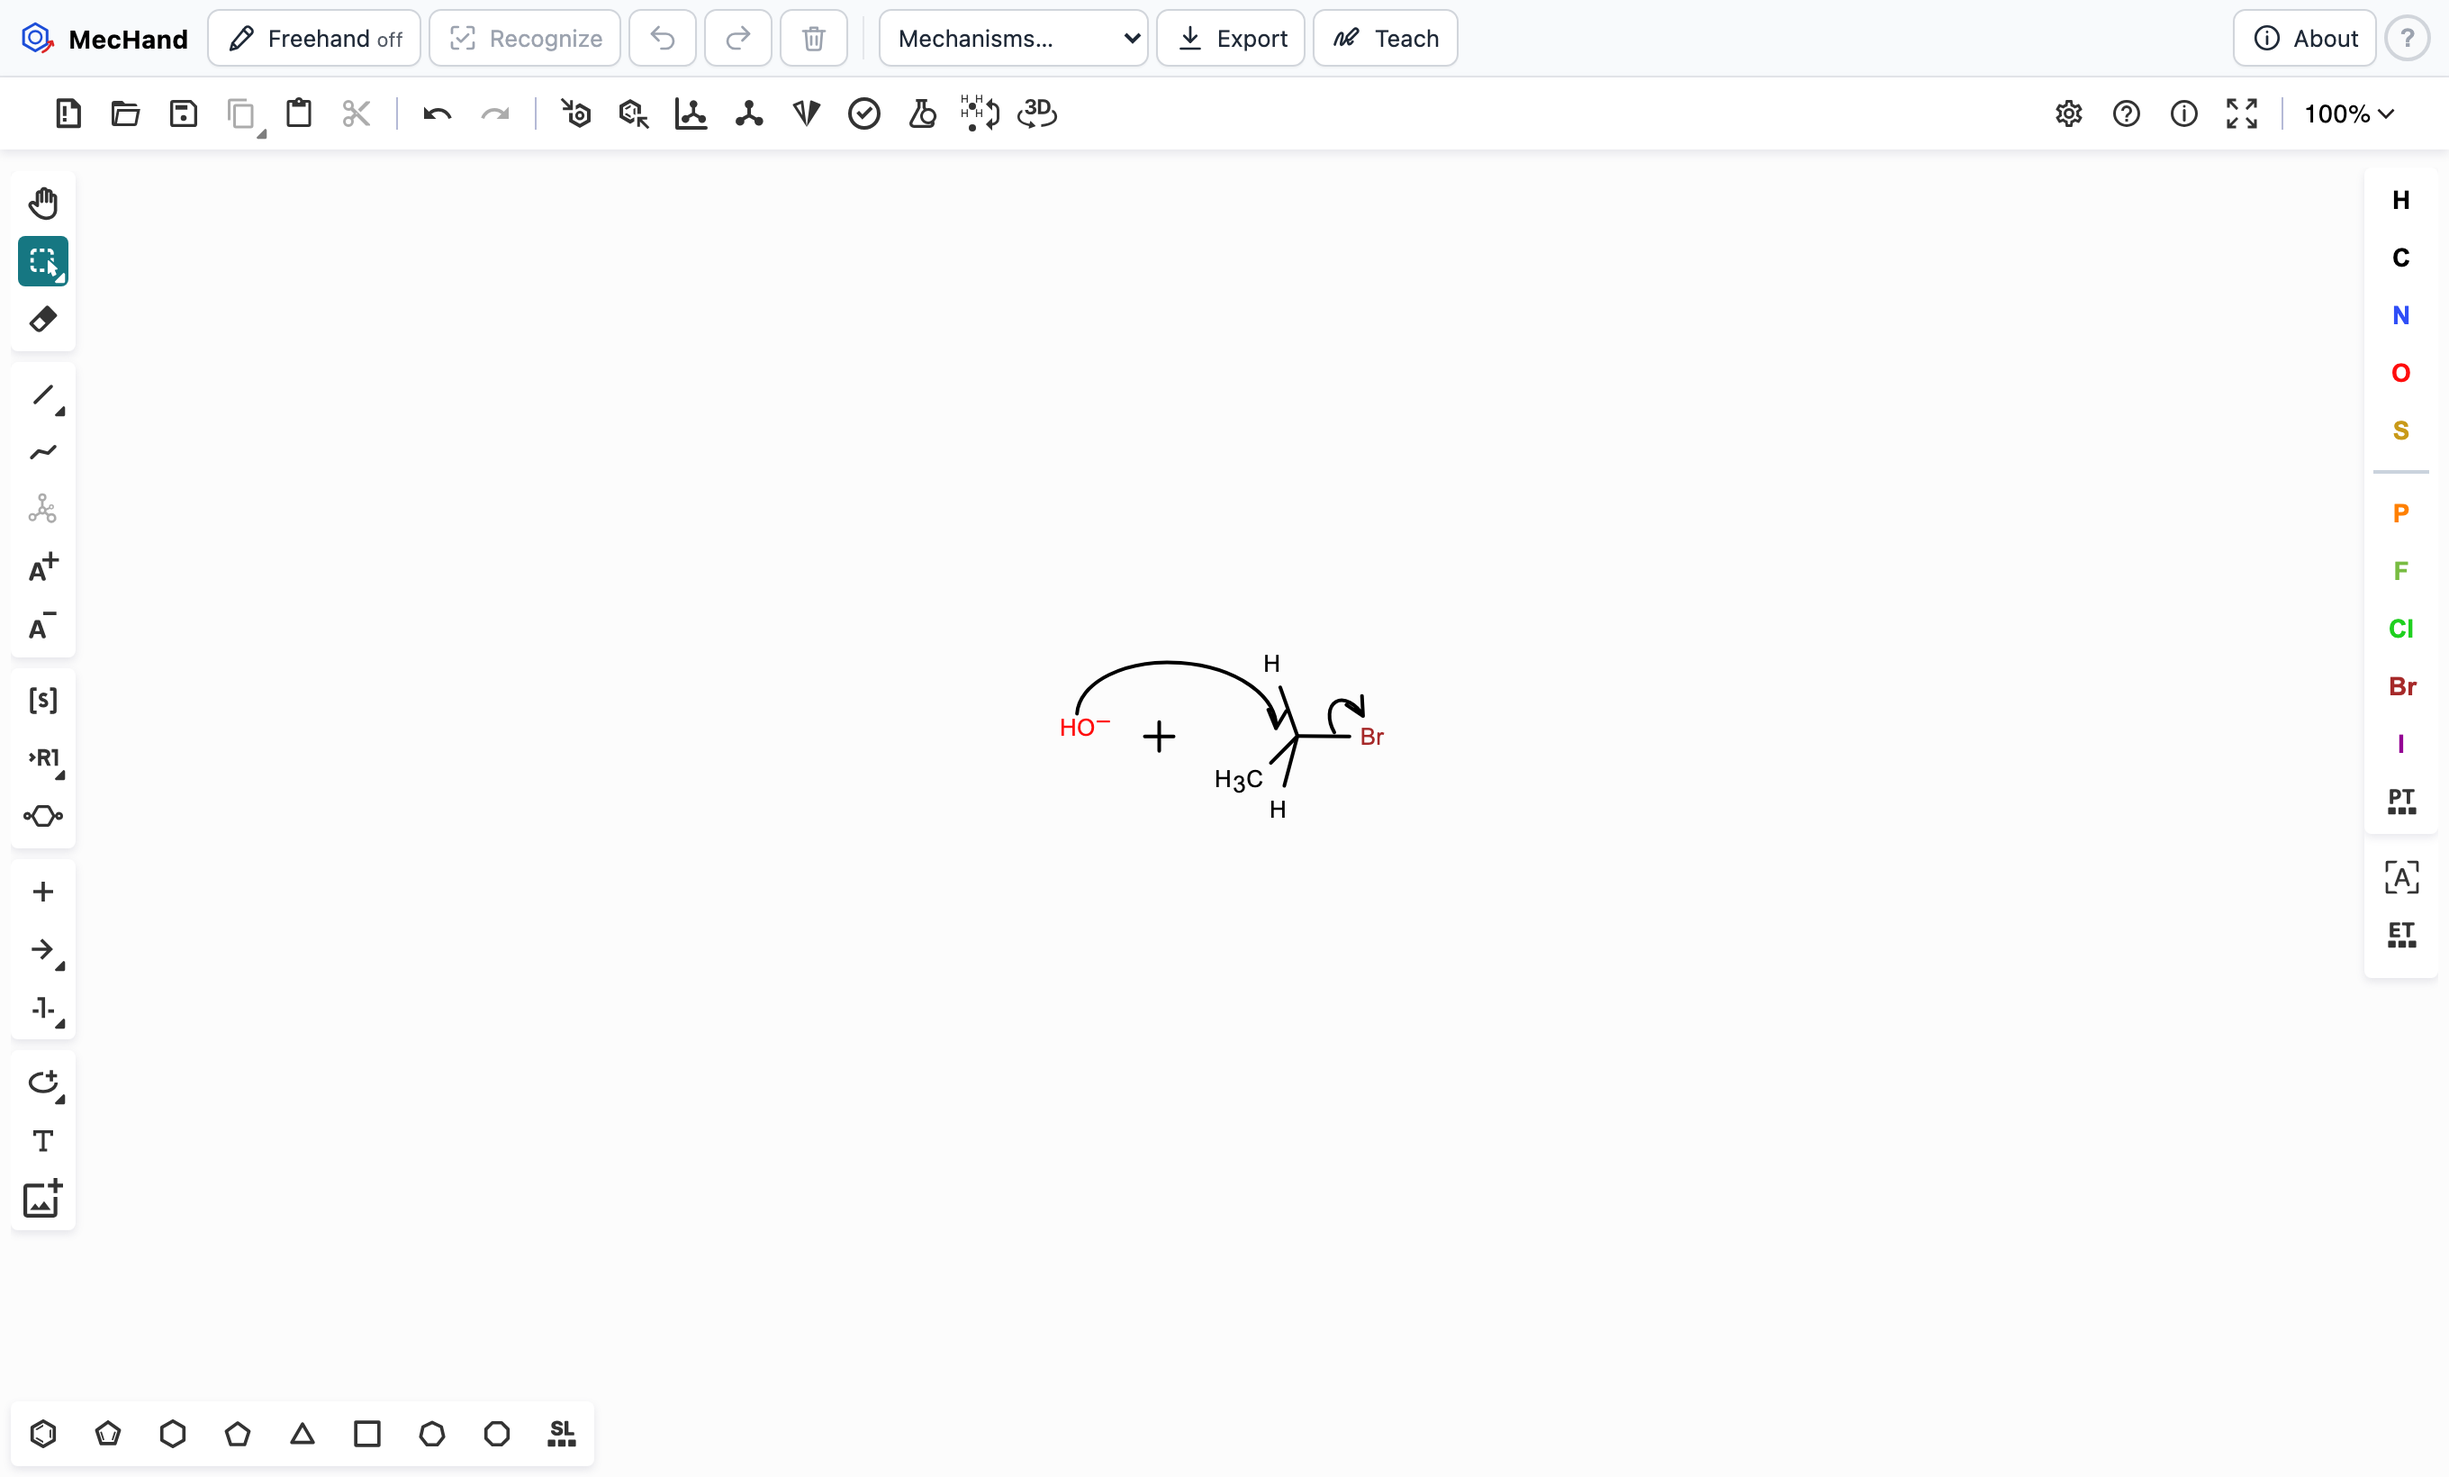
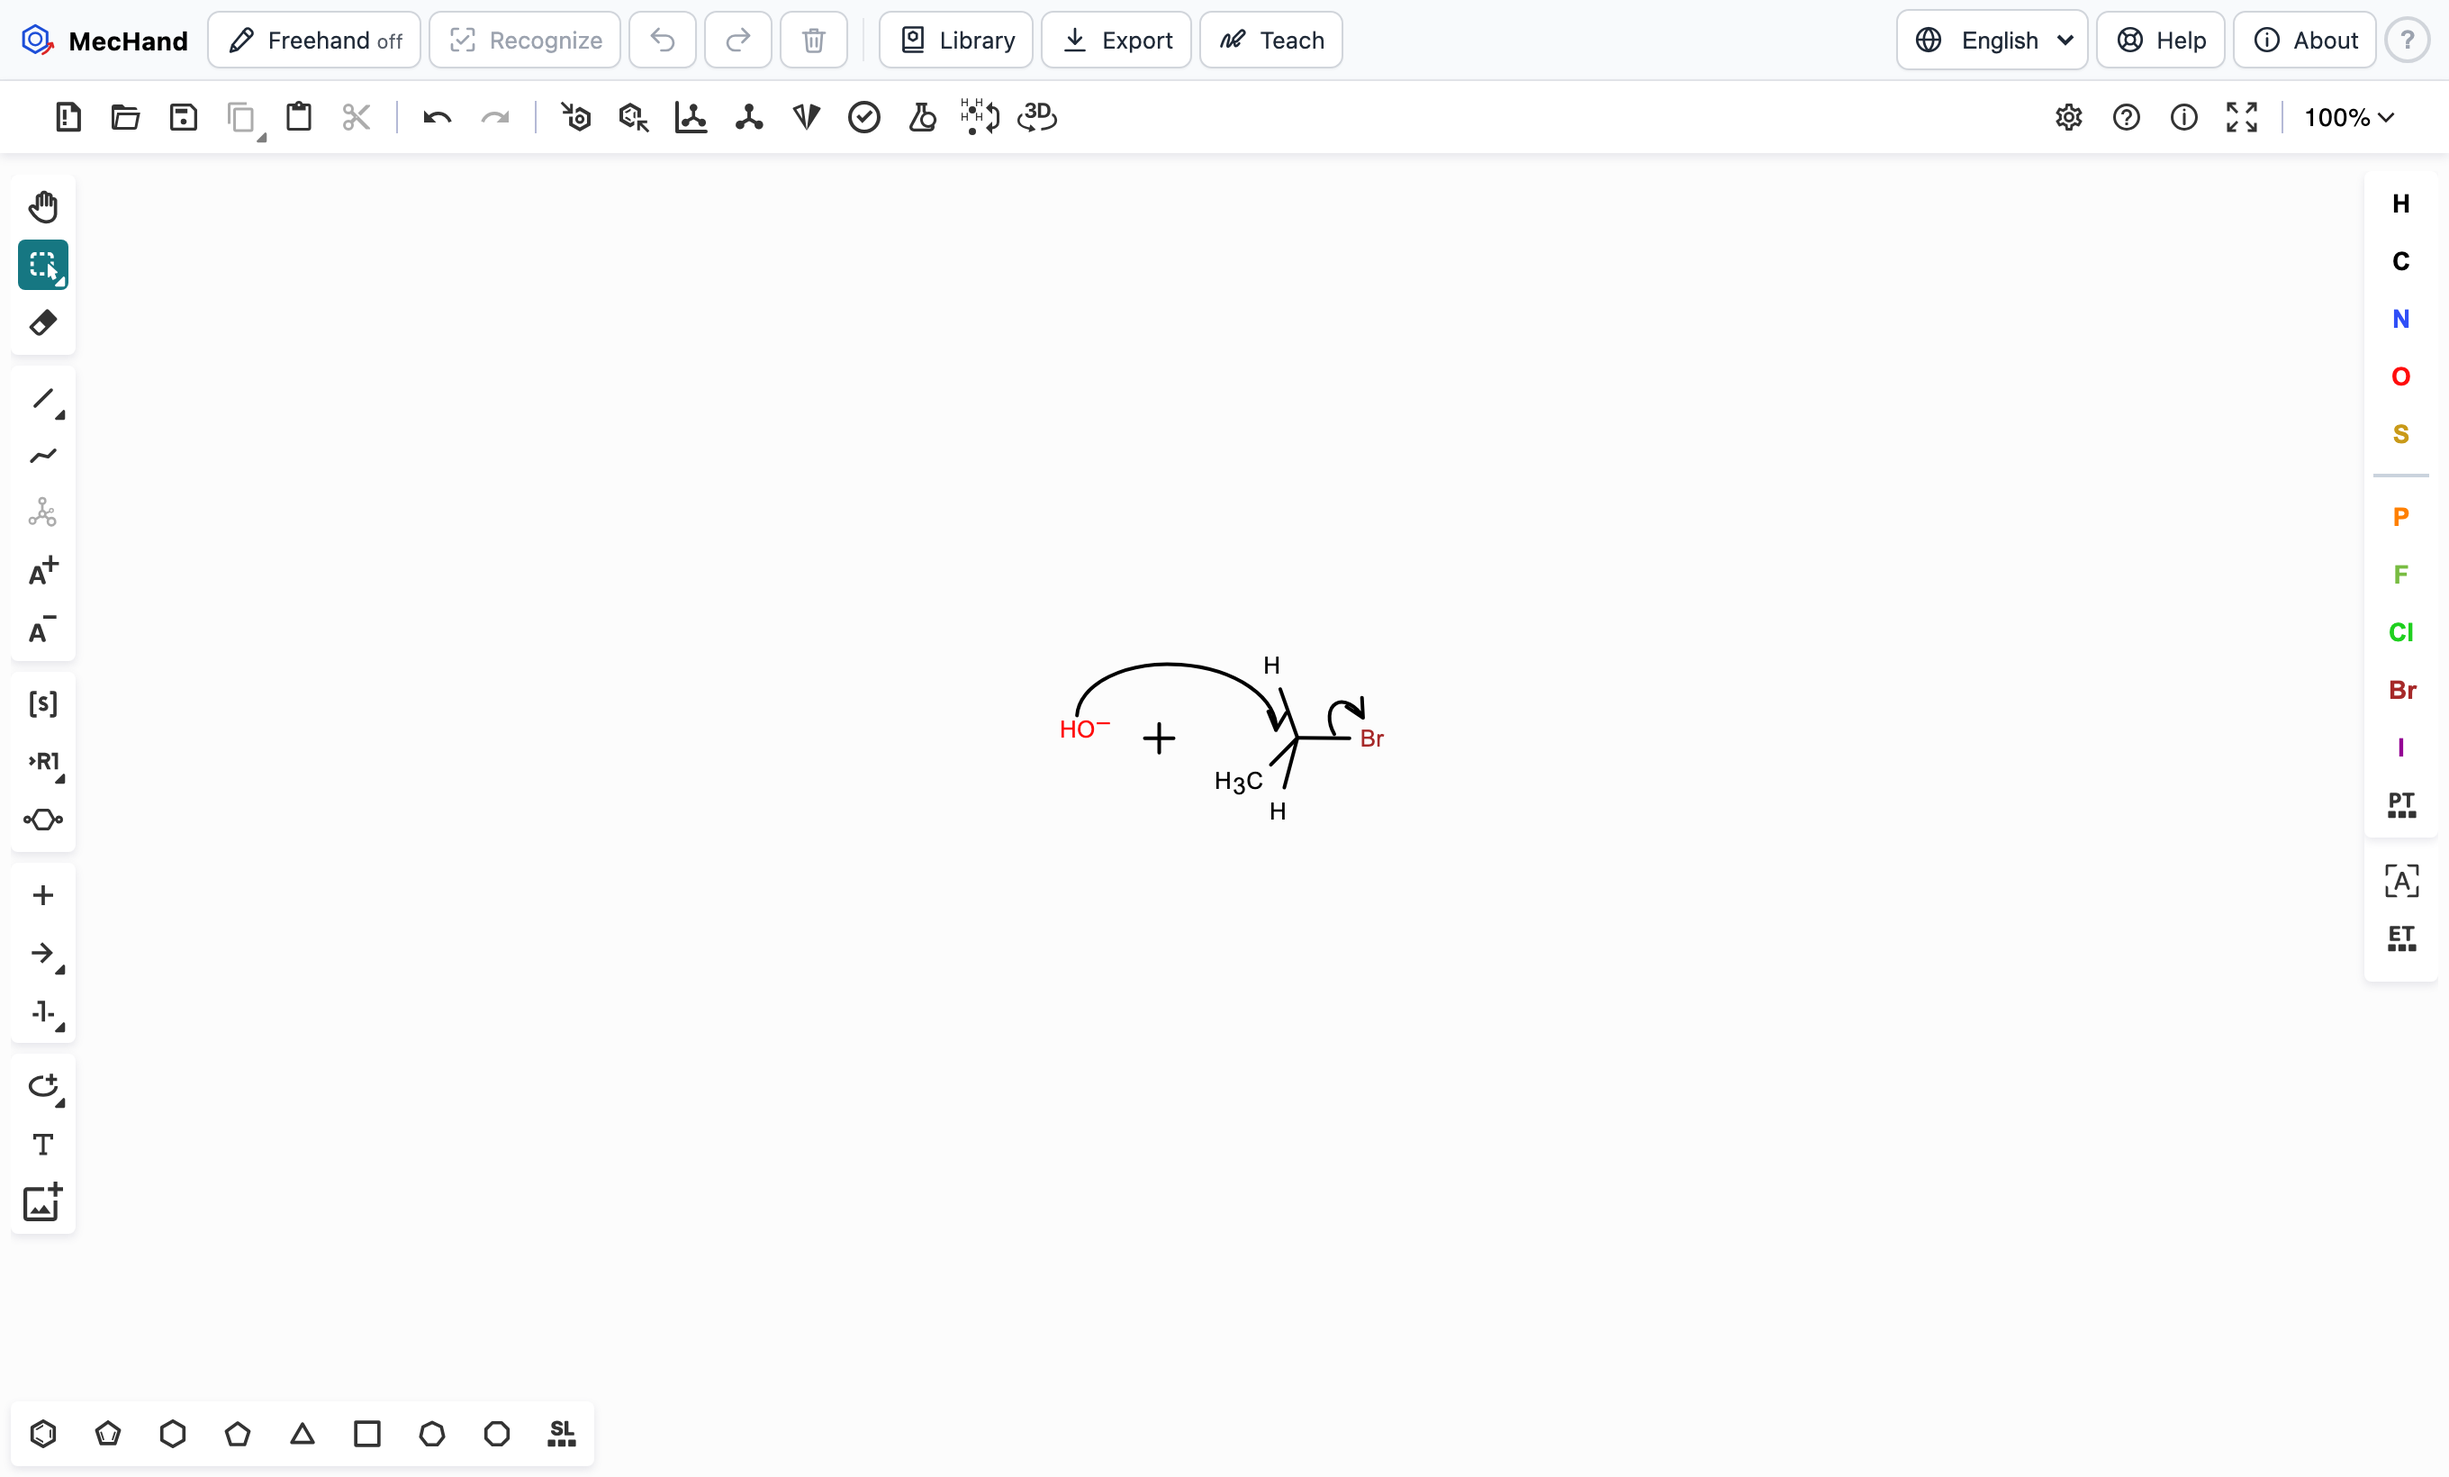
Website: translation guide, help centre and tour, language storage; new screenshots

diff --git a/docs/guide/translating.md b/docs/guide/translating.md
@@ -1,0 +1,51 @@
+# Translating MecHand
+
+MecHand's interface — buttons, dialogs, the pen bar, the template library, the help centre, the
+guided tour and the study panel — can be shown in any language. Each language is **one plain JSON
+file** in
+[`ketcher-mechhand/src/i18n/locales/`](https://github.com/CompBiochBiophLab/MecHand/tree/main/ketcher-mechhand/src/i18n/locales):
+
+| File | Language | Status |
+| --- | --- | --- |
+| `en.json` | English | Source |
+| `ca.json` | Català | Complete |
+| `es.json` | Español | Complete |
+
+Choose the language with the menu next to **Help** (the globe), or with `?lang=xx` in the address.
+The choice is remembered in your browser. Ketcher's own toolbars are part of Ketcher and are not
+translated by MecHand.
+
+## Add or improve a language
+
+1. Copy `en.json` to a new file named with the language code (`fr.json`, `de.json`, `pt-BR.json`…).
+2. Change the `_meta` block: the language's own name (`"name": "Français"`) and your name in
+   `"authors"`.
+3. Translate the **values** (right of the colon). Do not change the **keys** (left of the colon).
+4. Keep the `{placeholders}` exactly as they are — they are filled in by the program — and the
+   `**bold**`, `*italic*` and `` `code` `` marks if you can.
+5. Words that vary with a number come in variants: `"atoms_one": "{count} atom"`,
+   `"atoms_other": "{count} atoms"`. Use the categories of your language (`_one`, `_two`, `_few`,
+   `_many`, `_other`, as in [Unicode plural rules](https://www.unicode.org/cldr/charts/latest/supplemental/language_plural_rules.html));
+   `_other` is always used when a category is missing.
+6. Save the file as UTF-8 and send it: a pull request on GitHub, or by e-mail to the project.
+
+You do not have to translate everything at once: any text that is missing is shown in English.
+
+## Check a translation
+
+With the app checked out (see [Development](./development)):
+
+```sh
+cd ketcher-mechhand
+npx vitest run src/i18n        # unknown keys, changed placeholders, completeness of en/ca/es
+npm run dev                    # then open http://localhost:5173/?lang=xx
+```
+
+The test fails if a key does not exist in English (a typo) or if a placeholder was changed;
+partial translations of new languages pass.
+
+## Notes for the user study
+
+The study panel (`?study=1`) runs in Catalan unless `&lang=` is given. Its questionnaire includes the
+System Usability Scale: the English texts are Brooke's original items; the Catalan and Spanish ones
+are the project's own translations, not validated versions of the scale.

diff --git a/docs/guide/privacy.md b/docs/guide/privacy.md
@@ -16,6 +16,7 @@ data, or sets a cookie.
 | Your ink and recognized structures | Stay in the page (memory). Nothing is uploaded. |
 | Teach samples | Your browser's local storage only (`mechand.symbols.user.v1` for letters, `mechand.elements.user.v1` for arrows, bonds and electrons). Each sample holds the symbol or element (plus, for elements, the scale of the Teach box) and the *x, y* points of its strokes — no timestamps, pressure, device or identity. Imported files are reduced to the same fields. Delete them with **Teach → Delete all**, or by clearing the site's data. |
 | Pen settings | Your browser's local storage only (`mechand.pen.v1`): ink colour, kind of line, width and input mode. Nothing about your strokes. |
+| Interface language, guided tour and tips already shown | Your browser's local storage only (`mechand.lang.v1`, `mechand.tour.v1`, `mechand.tips.v1`). |
 | Library favourites and recent templates | Your browser's local storage only (`mechand.library.favourites`, `mechand.library.recent`): template names. |
 | A name or CAS number you ask the library to look up online | Only when you press **Look up online** (or Alt+Enter): the typed text goes to PubChem (NCBI/NIH, USA) and, if PubChem does not know it, to OPSIN (EMBL-EBI, UK). SMILES and InChI are always read offline. Not available in the user-study mode. |
 | Ketcher settings | Your browser's local storage (Ketcher's own keys). |

diff --git a/docs/guide/getting-started.md b/docs/guide/getting-started.md
@@ -20,8 +20,16 @@ The MecHand bar sits above the Ketcher editor:
 | **Library** (Ctrl/⌘+K) | Template library: rings, functional groups, biomolecules, reagents and complete mechanisms; also draws a molecule from its SMILES, InChI, CAS number or name. |
 | **Export** | TikZ, chemfig, ChemDraw (CDXML), MOL/RXN, KET, SMILES. |
 | **Teach** | Teaches MecHand your handwriting. |
+| Language (globe) | Language of the interface: English, Català, Español… ([add yours](./translating)). |
+| **Help** (F1) | Help centre: tips for what you are doing now, searchable topics, keyboard shortcuts and a guided tour of the controls. |
 | **About** | Version, recognition model, structure engine and browser notes. |
 | **?** | Shows short help labels on every button (Expert or Student level). |
+
+![The help centre beside the canvas](/img/help-center.png)
+
+On your first visit MecHand offers a one-minute **guided tour**; you can take it again from the
+help centre. Small tips also appear once when they can help — for instance when palm rejection is
+ignoring your finger, or when you seem to be drawing with a trackpad.
 
 Continue with [Drawing mechanisms](./drawing), or follow the [tutorial (PDF)](/tutorial.pdf).
 

diff --git a/README.md b/README.md
@@ -35,6 +35,7 @@ electron-flow arrows into Ketcher.
 - [Export](#export)
 - [Browser support](#browser-support)
 - [Privacy](#privacy)
+- [Help and translations](#help-and-translations)
 - [User study](#user-study)
 - [Optional recognition server (DECIMER)](#optional-recognition-server-decimer)
 - [Ideas taken from ChemDraw and Marvin](#ideas-taken-from-chemdraw-and-marvin)
@@ -298,6 +299,16 @@ makes **no network request**, no data is sent, and no cookie is set.
   avoid even that, run MecHand locally (`make dev`).
 
 ---
+
+## Help and translations
+
+**Help** (F1) opens a help centre beside the canvas: tips for what you are doing now, searchable topics,
+the keyboard shortcuts and a guided tour of the controls; small tips also appear once when they can
+help (a finger ignored by palm rejection, drawing with a trackpad). The whole interface is
+translated with one JSON file per language in
+[`ketcher-mechhand/src/i18n/locales/`](ketcher-mechhand/src/i18n/locales/) — English, Català and
+Español so far; copy `en.json`, translate the values and send it to add a language (see the
+[translation guide](https://compbiochbiophlab.github.io/MecHand/guide/translating)).
 
 ## User study
 

diff --git a/docs/guide/study.md b/docs/guide/study.md
@@ -28,7 +28,7 @@ participant through:
 The session file (schema `mechand-study-session/3`, see
 [`recorder.ts`](https://github.com/CompBiochBiophLab/MecHand/blob/main/ketcher-mechhand/src/study/recorder.ts))
 holds a random code such as `MH-7K3Q9`, the group, the year, the app version and commit, the
-answers, a coarse description of the browser and device (browser and OS names and major versions,
+interface language (Catalan by default in the study), the answers, a coarse description of the browser and device (browser and OS names and major versions,
 architecture, screen size, touch points, pointer types), and for each task the time, the ink (x, y
 points rounded to 0.1 px and when each stroke started and ended), what MecHand recognized, the
 participant's decisions, the use of the pen controls, and the final drawing. Teach samples are

diff --git a/docs/guide/drawing.md b/docs/guide/drawing.md
@@ -101,5 +101,7 @@ be added to the shared model (see [Handwriting recognition](./recognition#updati
 | Ctrl+Z / ⌘Z | Undo the last change to the ink (freehand mode; otherwise Ketcher's undo) |
 | Ctrl+Shift+Z / ⌘⇧Z (or Ctrl+Y) | Redo ink (freehand mode) |
 | Esc | Drop an open trackpad stroke; close a dialog |
+| Ctrl+K / ⌘K | Template library |
+| F1 | Help centre |
 
 All of Ketcher's own shortcuts keep working when freehand mode is off.
